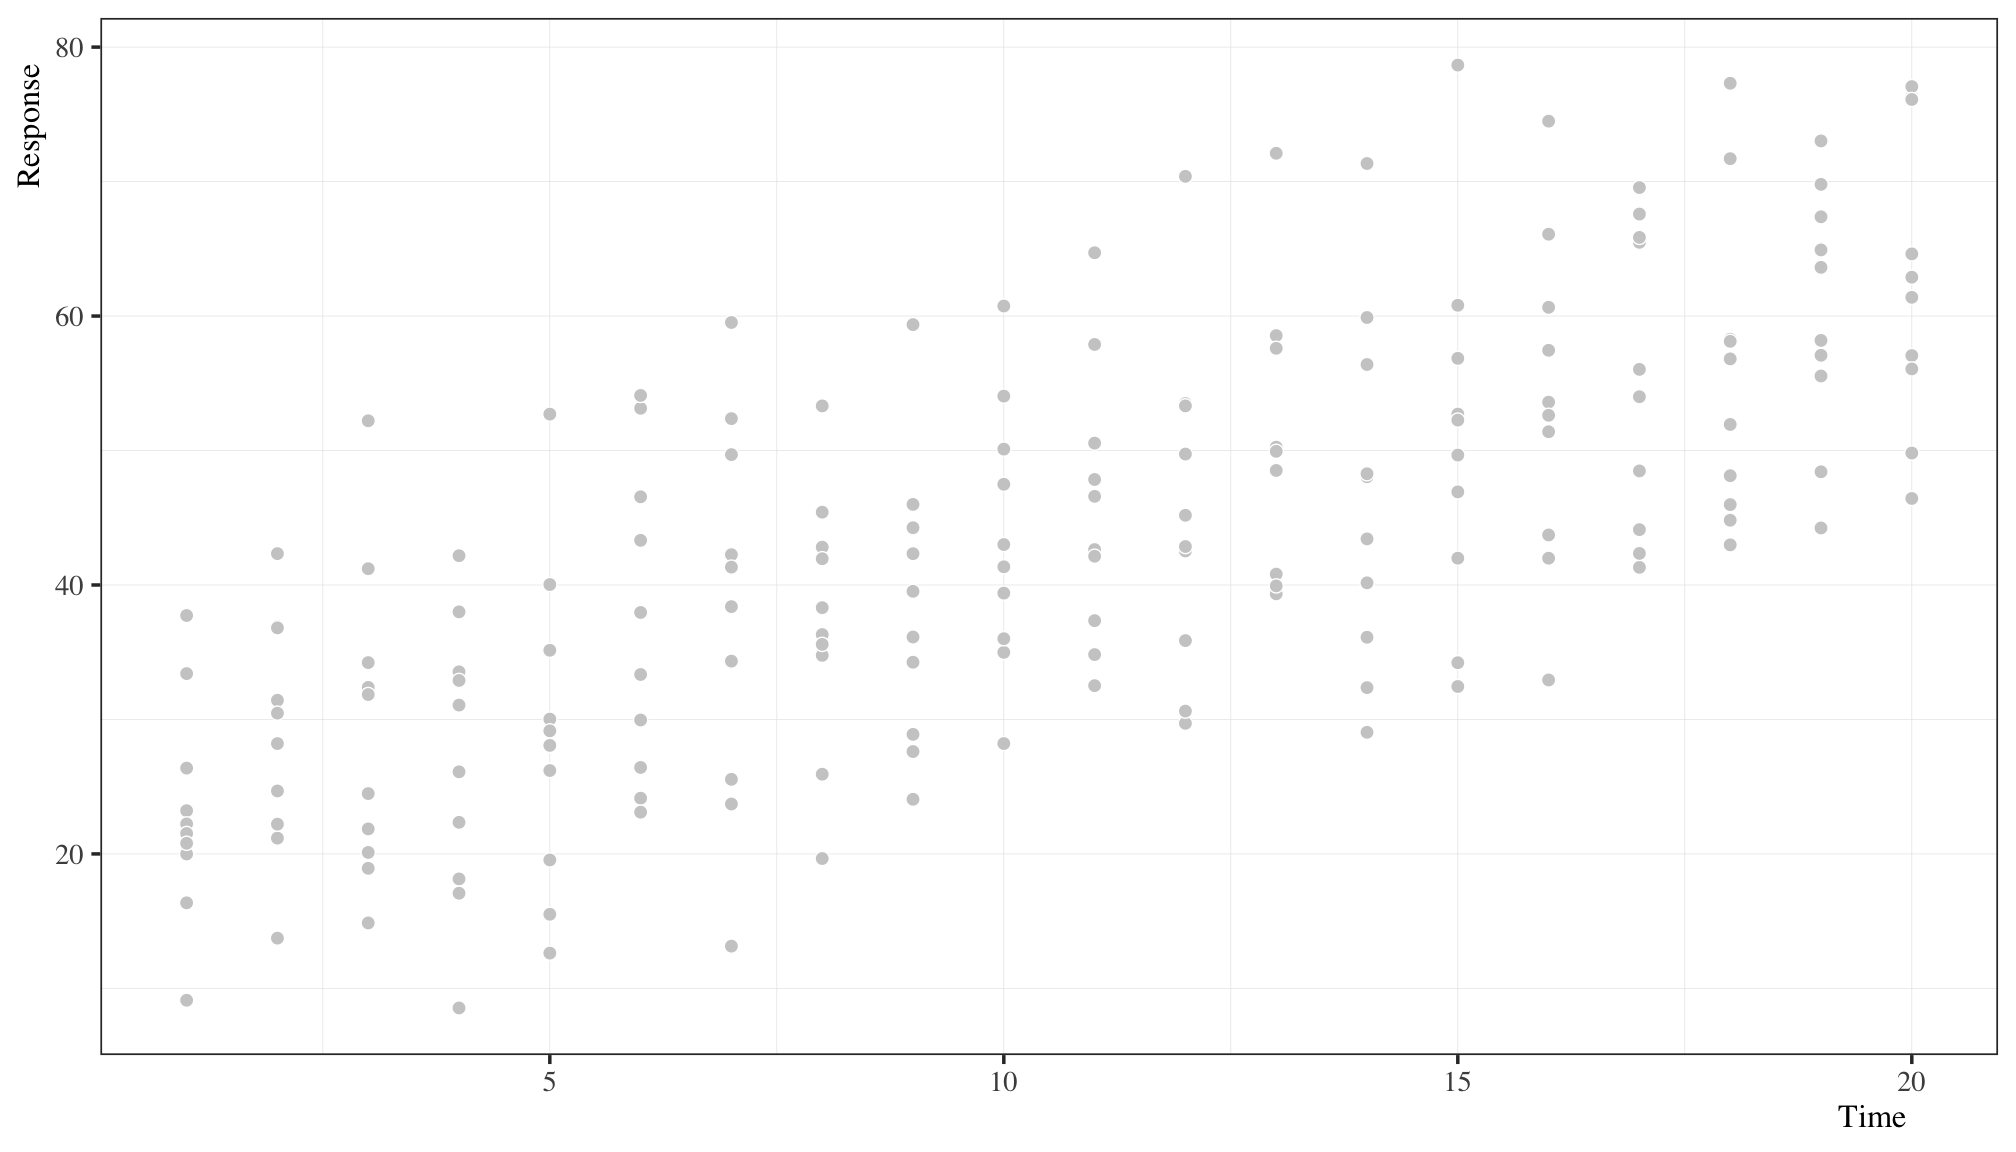
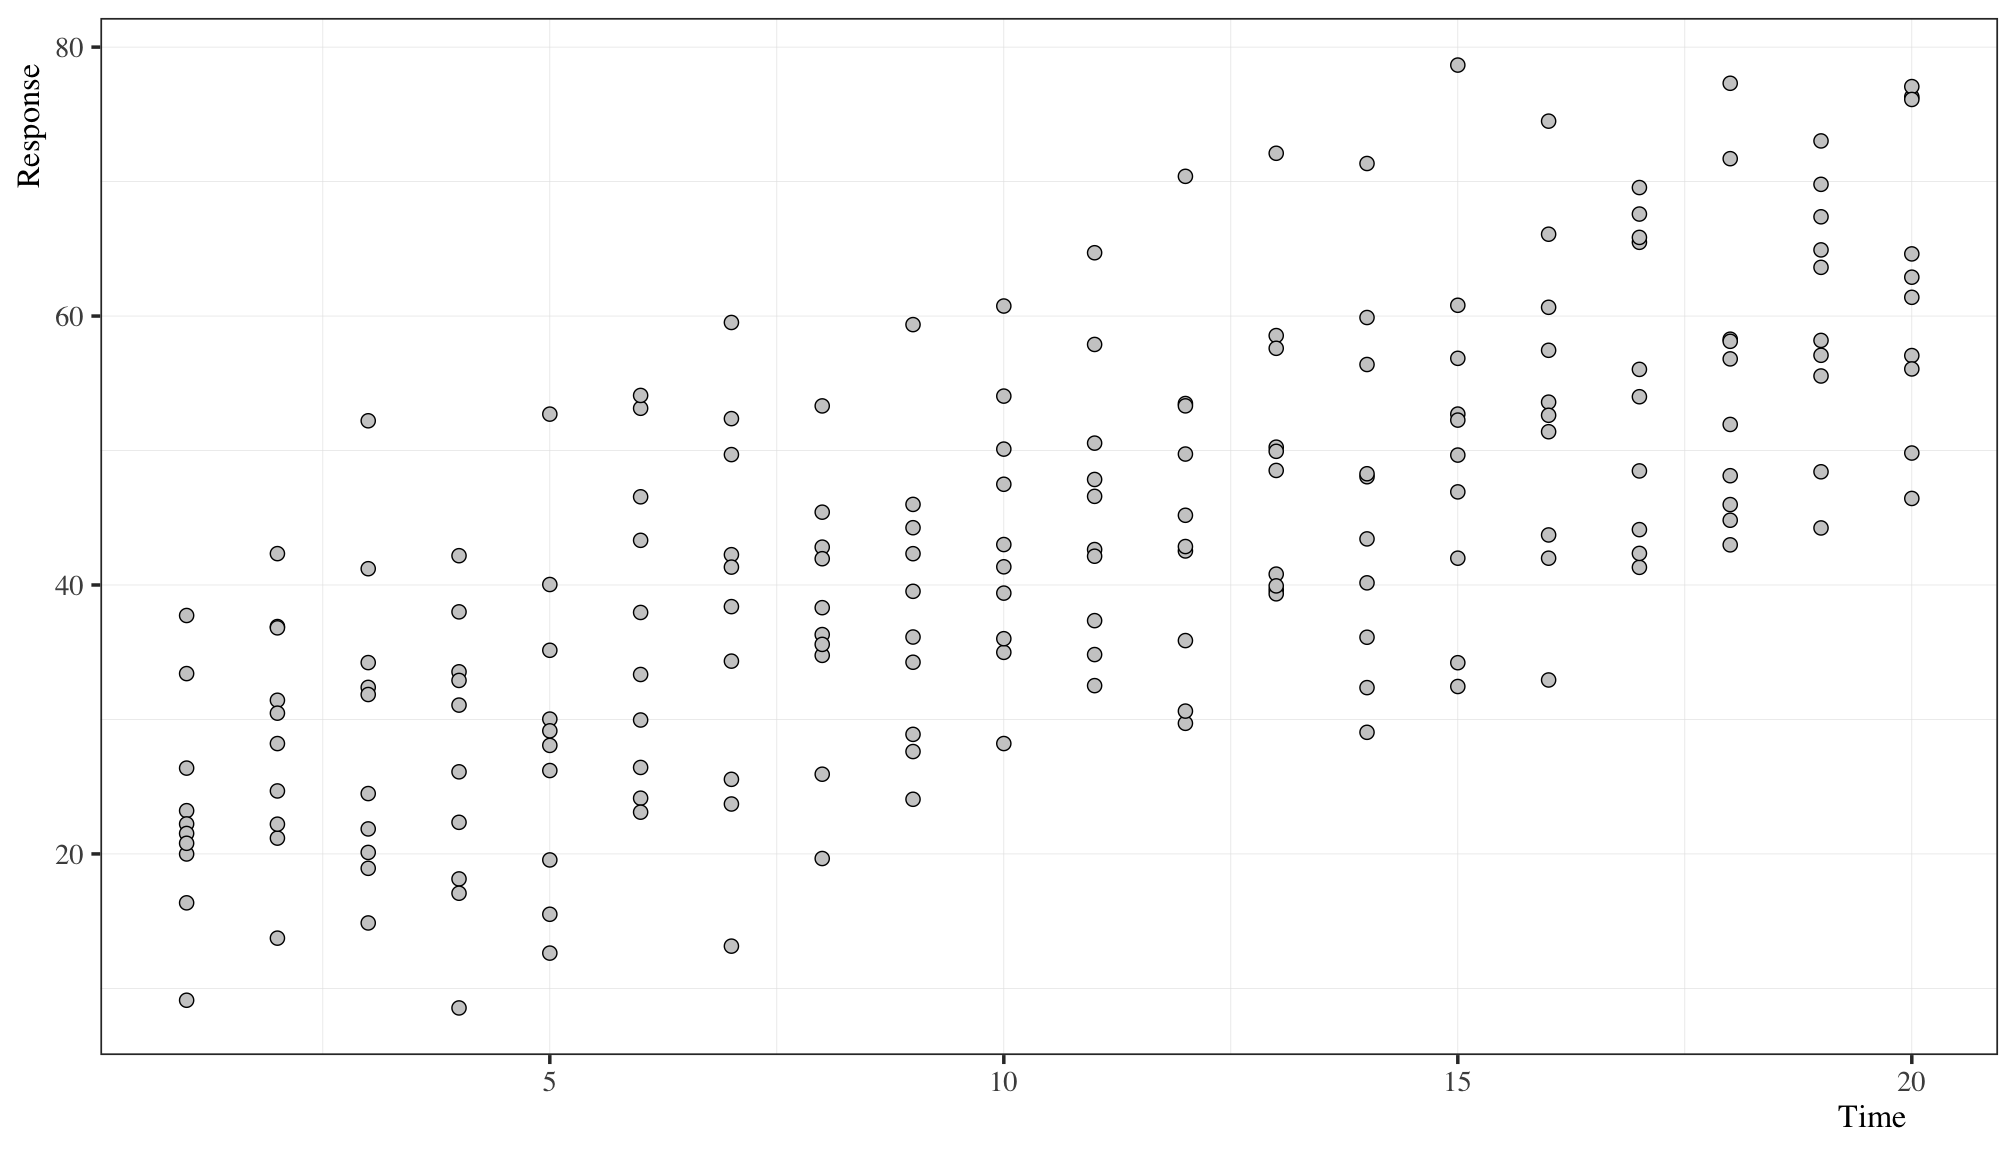
upload final scripts

diff --git a/docs/slides/03_10_mlm/index.html b/docs/slides/03_10_mlm/index.html
@@ -12,7 +12,7 @@
     <script src="assets/tile-view/tile-view.js"></script>
     <link href="assets/panelset/panelset.css" rel="stylesheet" />
     <script src="assets/panelset/panelset.js"></script>
-    <script type="application/json" id="xaringanExtra-editable-docid">{"id":"xaa3e6f3c7304d5baa3752d647b75577","expires":14}</script>
+    <script type="application/json" id="xaringanExtra-editable-docid">{"id":"x6f680042cde4ec1ae5c16fdbebc9fab","expires":14}</script>
     <script src="assets/himalaya/himalaya.js"></script>
     <script src="assets/js-cookie/js.cookie.js"></script>
     <link href="assets/editable/editable.css" rel="stylesheet" />
@@ -33,7 +33,7 @@ class: center, middle, inverse, title-slide
 ### Joseph V. Casillas, PhD
 ]
 .date[
-### Rutgers University</br>Last update: 2022-12-01
+### Rutgers University</br>Last update: 2022-12-02
 ]
 
 ---
@@ -844,7 +844,8 @@ summary(m_pooled)
 ## (Intercept)  252.321      6.406  39.389  &lt; 2e-16 ***
 ## Days          10.328      1.210   8.537 5.48e-15 ***
 ## ---
-## Signif. codes:  0 '***' 0.001 '**' 0.01 '*' 0.05 '.' 0.1 ' ' 1
+## Signif. codes:  
+## 0 '***' 0.001 '**' 0.01 '*' 0.05 '.' 0.1 ' ' 1
 ## 
 ## Residual standard error: 47.43 on 181 degrees of freedom
 ## Multiple R-squared:  0.2871,	Adjusted R-squared:  0.2831 
@@ -1112,6 +1113,12 @@ background-size: contain
 ---
 background-color: black
 
+
+```
+## Inverted geom defaults of fill and color/colour.
+## To change them back, use invert_geom_defaults().
+```
+
 &lt;img src="index_files/figure-html/topo-map-1.png" width="1008" /&gt;
 
 ---
@@ -1155,22 +1162,30 @@ class: title-slide-final, left
 
 # References
 
-[1] M. Hardy. "Assessing Group Differences in Effects". In: _Regression with Dummy
-Variables_. Ed. by M. Hardy. Sage University Paper Series on Quantitative
-Applications in the Social Sciences - 93. Newbury Park, CA: Sage, 1993, pp. 29-63.
+[1] M. Hardy. "Assessing Group Differences in
+Effects". In: _Regression with Dummy Variables_.
+Ed. by M. Hardy. Sage University Paper Series on
+Quantitative Applications in the Social Sciences
+- 93. Newbury Park, CA: Sage, 1993, pp. 29-63.
 ISBN: 9780803951280.
 
-[2] M. Hardy. "Creating Dummy Variables". In: _Regression with Dummy Variables_. Ed.
-by M. Hardy. Sage University Paper Series on Quantitative Applications in the Social
-Sciences - 93. Newbury Park, CA: Sage, 1993, pp. 7-17. ISBN: 9780803951280.
-
-[3] M. Hardy. "Using Dummy Variables as Regressors". In: _Regression with Dummy
-Variables_. Ed. by M. Hardy. Sage University Paper Series on Quantitative
-Applications in the Social Sciences - 93. Newbury Park, CA: Sage, 1993, pp. 18-28.
+[2] M. Hardy. "Creating Dummy Variables". In:
+_Regression with Dummy Variables_. Ed. by M.
+Hardy. Sage University Paper Series on
+Quantitative Applications in the Social Sciences
+- 93. Newbury Park, CA: Sage, 1993, pp. 7-17.
 ISBN: 9780803951280.
 
-[4] H. Wickham and G. Grolemund. _R for Data Science: Import, Tidy, Transform,
-Visualize, and Model Data_. O'Reilly Media, 2016.
+[3] M. Hardy. "Using Dummy Variables as
+Regressors". In: _Regression with Dummy
+Variables_. Ed. by M. Hardy. Sage University
+Paper Series on Quantitative Applications in the
+Social Sciences - 93. Newbury Park, CA: Sage,
+1993, pp. 18-28. ISBN: 9780803951280.
+
+[4] H. Wickham and G. Grolemund. _R for Data
+Science: Import, Tidy, Transform, Visualize, and
+Model Data_. O'Reilly Media, 2016.
 
 [5] Bates, D. (2011). *Mixed models in R using the lme4 package Part 2: Longitudinal data, modeling interactions*. http://lme4.r-forge.r-project.org/slides/2011-03-16-Amsterdam/2Longitudinal.pdf
 

diff --git a/slides/03_10_mlm/index.html b/slides/03_10_mlm/index.html
@@ -12,7 +12,7 @@
     <script src="assets/tile-view/tile-view.js"></script>
     <link href="assets/panelset/panelset.css" rel="stylesheet" />
     <script src="assets/panelset/panelset.js"></script>
-    <script type="application/json" id="xaringanExtra-editable-docid">{"id":"xaa3e6f3c7304d5baa3752d647b75577","expires":14}</script>
+    <script type="application/json" id="xaringanExtra-editable-docid">{"id":"x6f680042cde4ec1ae5c16fdbebc9fab","expires":14}</script>
     <script src="assets/himalaya/himalaya.js"></script>
     <script src="assets/js-cookie/js.cookie.js"></script>
     <link href="assets/editable/editable.css" rel="stylesheet" />
@@ -33,7 +33,7 @@ class: center, middle, inverse, title-slide
 ### Joseph V. Casillas, PhD
 ]
 .date[
-### Rutgers University</br>Last update: 2022-12-01
+### Rutgers University</br>Last update: 2022-12-02
 ]
 
 ---
@@ -844,7 +844,8 @@ summary(m_pooled)
 ## (Intercept)  252.321      6.406  39.389  &lt; 2e-16 ***
 ## Days          10.328      1.210   8.537 5.48e-15 ***
 ## ---
-## Signif. codes:  0 '***' 0.001 '**' 0.01 '*' 0.05 '.' 0.1 ' ' 1
+## Signif. codes:  
+## 0 '***' 0.001 '**' 0.01 '*' 0.05 '.' 0.1 ' ' 1
 ## 
 ## Residual standard error: 47.43 on 181 degrees of freedom
 ## Multiple R-squared:  0.2871,	Adjusted R-squared:  0.2831 
@@ -1112,6 +1113,12 @@ background-size: contain
 ---
 background-color: black
 
+
+```
+## Inverted geom defaults of fill and color/colour.
+## To change them back, use invert_geom_defaults().
+```
+
 &lt;img src="index_files/figure-html/topo-map-1.png" width="1008" /&gt;
 
 ---
@@ -1155,22 +1162,30 @@ class: title-slide-final, left
 
 # References
 
-[1] M. Hardy. "Assessing Group Differences in Effects". In: _Regression with Dummy
-Variables_. Ed. by M. Hardy. Sage University Paper Series on Quantitative
-Applications in the Social Sciences - 93. Newbury Park, CA: Sage, 1993, pp. 29-63.
+[1] M. Hardy. "Assessing Group Differences in
+Effects". In: _Regression with Dummy Variables_.
+Ed. by M. Hardy. Sage University Paper Series on
+Quantitative Applications in the Social Sciences
+- 93. Newbury Park, CA: Sage, 1993, pp. 29-63.
 ISBN: 9780803951280.
 
-[2] M. Hardy. "Creating Dummy Variables". In: _Regression with Dummy Variables_. Ed.
-by M. Hardy. Sage University Paper Series on Quantitative Applications in the Social
-Sciences - 93. Newbury Park, CA: Sage, 1993, pp. 7-17. ISBN: 9780803951280.
-
-[3] M. Hardy. "Using Dummy Variables as Regressors". In: _Regression with Dummy
-Variables_. Ed. by M. Hardy. Sage University Paper Series on Quantitative
-Applications in the Social Sciences - 93. Newbury Park, CA: Sage, 1993, pp. 18-28.
+[2] M. Hardy. "Creating Dummy Variables". In:
+_Regression with Dummy Variables_. Ed. by M.
+Hardy. Sage University Paper Series on
+Quantitative Applications in the Social Sciences
+- 93. Newbury Park, CA: Sage, 1993, pp. 7-17.
 ISBN: 9780803951280.
 
-[4] H. Wickham and G. Grolemund. _R for Data Science: Import, Tidy, Transform,
-Visualize, and Model Data_. O'Reilly Media, 2016.
+[3] M. Hardy. "Using Dummy Variables as
+Regressors". In: _Regression with Dummy
+Variables_. Ed. by M. Hardy. Sage University
+Paper Series on Quantitative Applications in the
+Social Sciences - 93. Newbury Park, CA: Sage,
+1993, pp. 18-28. ISBN: 9780803951280.
+
+[4] H. Wickham and G. Grolemund. _R for Data
+Science: Import, Tidy, Transform, Visualize, and
+Model Data_. O'Reilly Media, 2016.
 
 [5] Bates, D. (2011). *Mixed models in R using the lme4 package Part 2: Longitudinal data, modeling interactions*. http://lme4.r-forge.r-project.org/slides/2011-03-16-Amsterdam/2Longitudinal.pdf
 
